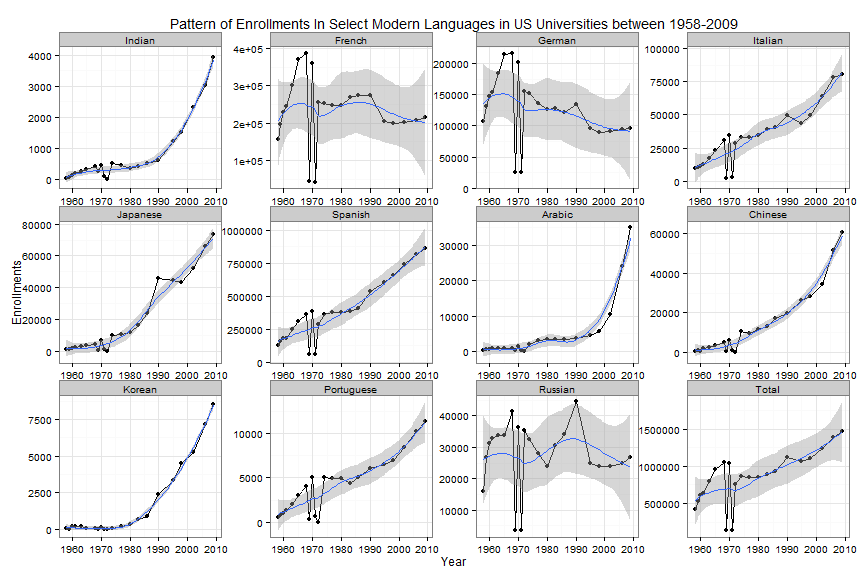
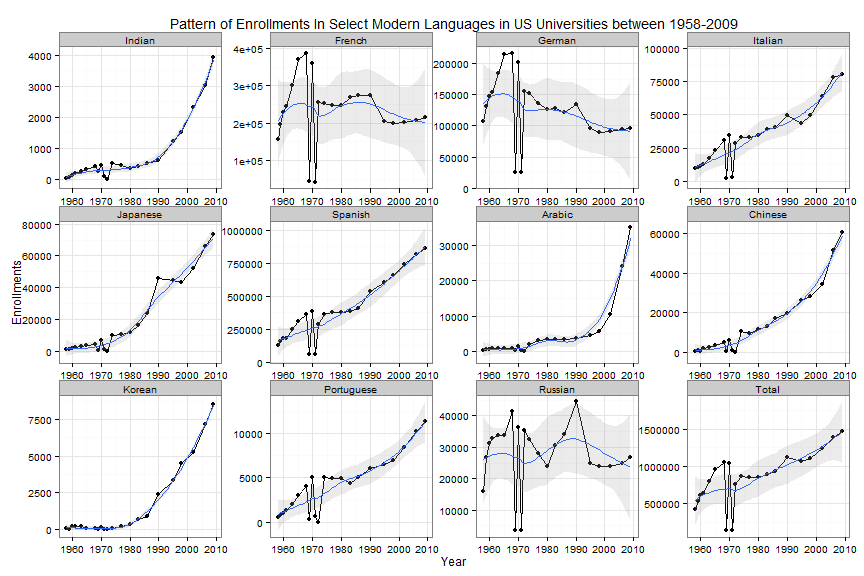
smoothed graphs

diff --git a/index.html b/index.html
@@ -6,7 +6,7 @@
 <head>
   <meta charset="utf-8">
   <meta http-equiv="X-UA-Compatible" content="IE=edge,chrome=1">
-  <title>Interest in Modern Languages other than English in the US</title>
+  <title>Data Mining Modern Languages Enrollments in US</title>
   <meta name="description" content="">
   <meta name="viewport" content="width=device-width">
   <link rel="icon" type="image/png" href="favicon.ico">
@@ -45,7 +45,7 @@
    <!-- Ref: http://twitter.github.com/bootstrap/examples/hero.html -->
    
     <div class="container">
-      <h2>Interest in Modern Languages Other than English in the US</h2>
+      <h2>Data Mining Modern Languages Enrollments in US</h2>
 <p>This is an extension of a recent <a href="http://patilv.github.io/Enrollments-in-US-in-Different-Languages-using-rCharts-and-ggplot2/">blog post published by Vivek Patil on Modern Languages Enrollments in the US</a>. Using data from <a href="https://www.mla.org/flsurvey_search">MLA surveys of enrollments in institutions of US higher education between 1983 and 2009</a>, he found that enrollments in Indian languages were low, compared to enrollments in 10 other languages, besides English. These 10 languages were French, German, Italian, Japanese, Spanish, Arabic, Chinese, Korean, Portuguese, and Russian. In this extension, we use data from 22 survey years since 1958, <a href="https://www.mla.org/flsurvey_search">the first year for which the modern languages enrollment database provides data</a>, to study the pattern and number of students enrolling in these 11 languages.</p>
 
 <p>Why is a knowledge of different languages important and what is the general perception of current trends? Kathleen Stein-Smith noted in 2013 in the <a href="http://languagemagazine.com/?page_id=6466">Language Magazine</a> that there was a foreign language deficit in the US. A similar sentiment was echoed by the <a href="http://www.globallanguageproject.org/about_why.php">Global Language Project</a>. Both noted that knowing languages could help one understand foreign cultures in better ways and could provide advantages in international relations and international business.</p>
@@ -53,29 +53,29 @@
 <h3>Data</h3>
 
 <p>Enrollment data for US higher education institutions were collected for 22 survey years between 1958 and 2009 for 11 different languages. These include 1958-1961, 1963, 1965, 1968-1972, 1974, 1977, 1980, 1983, 1986, 1990, 1995, 1998, 2002, 2006, and 2009.
-For determining enrollment figures for Indian languages, a sum of enrollments for Bengali, Gujarati, Hindi, Hindi-Urdu, Kannada, Malayalam, Marathi, Punjabi, Tamil, Telugu, and Urdu was taken. This was consistent with the procedure <a href="http://www.forbes.com/sites/alyssaayres/2014/05/01/thanks-john-oliver-why-india-isnt-a-big-focus-for-u-s-television/">Alyssa Ayres used in a recent article in Forbes.</a> For more information on the enrollment data, assumptions in certain surveys and limitations associated with specific surveys and years, please see <a href="https://www.mla.org/about_search_flsurvey">here</a> and <a href="http://www.mla.org/aggregate_enrollment">here</a>. <strong>One point to remember is that in 1969 and 1971, enrollment numbers were for summer instead of the fall.</strong>     </p>
+For determining enrollment figures for Indian languages, a sum of enrollments for Bengali, Gujarati, Hindi, Hindi-Urdu, Kannada, Malayalam, Marathi, Punjabi, Tamil, Telugu, and Urdu was taken. This was consistent with the procedure <a href="http://www.forbes.com/sites/alyssaayres/2014/05/01/thanks-john-oliver-why-india-isnt-a-big-focus-for-u-s-television/">Alyssa Ayres used in a recent article in Forbes.</a> For more information on the enrollment data, assumptions in certain surveys and limitations associated with specific surveys and years, please see <a href="https://www.mla.org/about_search_flsurvey">here</a> and <a href="http://www.mla.org/aggregate_enrollment">here</a>. <strong>Please note that in 1969 and 1971, enrollment numbers were for summer instead of the fall.</strong>     </p>
 
 <h3>Pattern of Enrollments 1958-2009</h3>
 
 <p><img src="assets/fig/unnamed-chunk-1.png" alt="plot of chunk unnamed-chunk-1"> </p>
 
-<p>Besides French, German, and Russian, interest in other languages studied in this article is on a rise. Total enrollments in this set of 11 languages are also rising. Please note that the population of the US jumped a little more than 1.75 times between 1958 and 2009. [It was approximately <a href="https://www.census.gov/popest/data/national/totals/pre-1980/tables/popclockest.txt">174.88 million in 1958</a> and about <a href="https://www.census.gov/popest/data/historical/2000s/vintage_2009/">307 million in 2009</a>.]   </p>
+<p>For most languages, there were dips in enrollments in 1969 and 1971, which are perhaps because of the way enrollments were reported for those two years (see note above).  Besides French, German, and Russian, interest in other languages studied in this article is on a rise. Total enrollments in this set of 11 languages are also rising. Please note that the population of the US jumped a little more than 1.75 times between 1958 and 2009. [It was approximately <a href="https://www.census.gov/popest/data/national/totals/pre-1980/tables/popclockest.txt">174.88 million in 1958</a> and about <a href="https://www.census.gov/popest/data/historical/2000s/vintage_2009/">307 million in 2009</a>.]   </p>
 
 <h3>Enrollments between 1958-2009</h3>
 
-<p>The <a href="http://www.mla.org/pdf/2009_enrollment_survey_pr.pdf">2009 MLA survey report</a> mentioned that Spanish, German and French (in that order) were the three most popular languages. The graph shown below indicates that Spanish, French, and German were the top three languages (among the languages being considered for this article) from the very beginning of the MLA database in 1958. In fact, among the 11 languages being studied, German has been a perennial third, whereas French was ahead of Spanish until 1969. In 1969, Spanish took over as the number one language of study. This graph also suggests that since the survey in 1986, enrollments in Spanish grew tremendously. Could it be that the growth in total enrollments is being driven primarily by the growth in enrollments in Spanish? </p>
+<p>The <a href="http://www.mla.org/pdf/2009_enrollment_survey_pr.pdf">2009 MLA survey report</a> mentioned that Spanish, German and French (in that order) were the three most popular languages. The graph shown below provides loess smoothed enrollment patterns. The graph indicates that Spanish, French, and German were the top three languages (among the languages being considered for this article) from the very beginning of the MLA database in 1958. In fact, among the 11 languages being studied, German has been a perennial third, whereas French was ahead of Spanish until 1969, when the latter took over as the number one language of study. Could it be that the growth in total enrollments is being driven primarily by the growth in enrollments in Spanish? </p>
 
 <p><img src="assets/fig/unnamed-chunk-2.png" alt="plot of chunk unnamed-chunk-2"> </p>
 
 <h3>Interactive comparison of total enrollments with and without Spanish, and comparison between one or more languages</h3>
 
-<p>The interactive chart shown below begins with a comparison of the total enrollments in 11 languages (upper line) being studied here with the total enrollments in 10 languages, after dropping Spanish (lower line). <strong>Hovering over the chart can provide information on the value during a particular year.</strong> The chart suggests that after dropping Spanish, total enrollments in the remaining 10 languages appear to be increasing at a sluggish pace. In fact, total enrollment numbers (without Spanish) are still lower than they were in 1965 or 1968, when the overall US population was substantially lower than it is now. </p>
+<p>The interactive chart shown below begins with a comparison of the total enrollments in 11 languages being studied here  (upper line) with the total enrollments in 10 languages, after dropping Spanish (lower line). <strong>Hovering over the chart can provide information on the value during a particular year.</strong> The chart suggests that after dropping Spanish, total enrollments in the remaining 10 languages appears to be increasing at a very sluggish pace. In fact, total enrollment numbers (without Spanish) are still lower than they were in 1965 or 1968, when the overall US population was substantially lower than it is now. </p>
 
 <h4>Further Interactivity</h4>
 
 <p>Clicking on a dot/circle of the legend can make that language appear/disappear from the plot. This can help with the comparison of enrollments between languages. It should be possible to plot patterns for all languages in this chart, if one so desired. </p>
 
-<iframe src="http://bl.ocks.org/patilv/raw/bd1d40544e1d0e37c348/" width=1200 height=450> </iframe>
+<iframe height="450" width="100%" src="http://bl.ocks.org/patilv/raw/bd1d40544e1d0e37c348/"></iframe>
  
 
 <h3>Conclusion</h3>

diff --git a/index.md b/index.md
@@ -1,5 +1,5 @@
 ---
-title       : Interest in Modern Languages other than English in the US
+title       : Data Mining Modern Languages Enrollments in US
 subtitle    : 
 author      : Vivek Patil
 job         : 
@@ -9,7 +9,8 @@ hitheme     : tomorrow      #
 widgets     : []            # {mathjax, quiz, bootstrap}
 mode        : selfcontained # {standalone, draft}
 ---
-## Interest in Modern Languages Other than English in the US
+## Data Mining Modern Languages Enrollments in US
+
 
 This is an extension of a recent [blog post published by Vivek Patil on Modern Languages Enrollments in the US](http://patilv.github.io/Enrollments-in-US-in-Different-Languages-using-rCharts-and-ggplot2/). Using data from [MLA surveys of enrollments in institutions of US higher education between 1983 and 2009](https://www.mla.org/flsurvey_search), he found that enrollments in Indian languages were low, compared to enrollments in 10 other languages, besides English. These 10 languages were French, German, Italian, Japanese, Spanish, Arabic, Chinese, Korean, Portuguese, and Russian. In this extension, we use data from 22 survey years since 1958, [the first year for which the modern languages enrollment database provides data](https://www.mla.org/flsurvey_search), to study the pattern and number of students enrolling in these 11 languages.
 
@@ -18,7 +19,7 @@ Why is a knowledge of different languages important and what is the general perc
 ### Data
 
 Enrollment data for US higher education institutions were collected for 22 survey years between 1958 and 2009 for 11 different languages. These include 1958-1961, 1963, 1965, 1968-1972, 1974, 1977, 1980, 1983, 1986, 1990, 1995, 1998, 2002, 2006, and 2009.
-For determining enrollment figures for Indian languages, a sum of enrollments for Bengali, Gujarati, Hindi, Hindi-Urdu, Kannada, Malayalam, Marathi, Punjabi, Tamil, Telugu, and Urdu was taken. This was consistent with the procedure [Alyssa Ayres used in a recent article in Forbes.](http://www.forbes.com/sites/alyssaayres/2014/05/01/thanks-john-oliver-why-india-isnt-a-big-focus-for-u-s-television/) For more information on the enrollment data, assumptions in certain surveys and limitations associated with specific surveys and years, please see [here](https://www.mla.org/about_search_flsurvey) and [here](http://www.mla.org/aggregate_enrollment). **One point to remember is that in 1969 and 1971, enrollment numbers were for summer instead of the fall.**     
+For determining enrollment figures for Indian languages, a sum of enrollments for Bengali, Gujarati, Hindi, Hindi-Urdu, Kannada, Malayalam, Marathi, Punjabi, Tamil, Telugu, and Urdu was taken. This was consistent with the procedure [Alyssa Ayres used in a recent article in Forbes.](http://www.forbes.com/sites/alyssaayres/2014/05/01/thanks-john-oliver-why-india-isnt-a-big-focus-for-u-s-television/) For more information on the enrollment data, assumptions in certain surveys and limitations associated with specific surveys and years, please see [here](https://www.mla.org/about_search_flsurvey) and [here](http://www.mla.org/aggregate_enrollment). **Please note that in 1969 and 1971, enrollment numbers were for summer instead of the fall.**     
 
 ### Pattern of Enrollments 1958-2009
 
@@ -26,11 +27,11 @@ For determining enrollment figures for Indian languages, a sum of enrollments fo
 ![plot of chunk unnamed-chunk-1](assets/fig/unnamed-chunk-1.png) 
 
 
-Besides French, German, and Russian, interest in other languages studied in this article is on a rise. Total enrollments in this set of 11 languages are also rising. Please note that the population of the US jumped a little more than 1.75 times between 1958 and 2009. [It was approximately [174.88 million in 1958](https://www.census.gov/popest/data/national/totals/pre-1980/tables/popclockest.txt) and about [307 million in 2009](https://www.census.gov/popest/data/historical/2000s/vintage_2009/).]   
+For most languages, there were dips in enrollments in 1969 and 1971, which are perhaps because of the way enrollments were reported for those two years (see note above).  Besides French, German, and Russian, interest in other languages studied in this article is on a rise. Total enrollments in this set of 11 languages are also rising. Please note that the population of the US jumped a little more than 1.75 times between 1958 and 2009. [It was approximately [174.88 million in 1958](https://www.census.gov/popest/data/national/totals/pre-1980/tables/popclockest.txt) and about [307 million in 2009](https://www.census.gov/popest/data/historical/2000s/vintage_2009/).]   
 
 ### Enrollments between 1958-2009
 
-The [2009 MLA survey report](http://www.mla.org/pdf/2009_enrollment_survey_pr.pdf) mentioned that Spanish, German and French (in that order) were the three most popular languages. The graph shown below indicates that Spanish, French, and German were the top three languages (among the languages being considered for this article) from the very beginning of the MLA database in 1958. In fact, among the 11 languages being studied, German has been a perennial third, whereas French was ahead of Spanish until 1969. In 1969, Spanish took over as the number one language of study. This graph also suggests that since the survey in 1986, enrollments in Spanish grew tremendously. Could it be that the growth in total enrollments is being driven primarily by the growth in enrollments in Spanish? 
+The [2009 MLA survey report](http://www.mla.org/pdf/2009_enrollment_survey_pr.pdf) mentioned that Spanish, German and French (in that order) were the three most popular languages. The graph shown below provides loess smoothed enrollment patterns. The graph indicates that Spanish, French, and German were the top three languages (among the languages being considered for this article) from the very beginning of the MLA database in 1958. In fact, among the 11 languages being studied, German has been a perennial third, whereas French was ahead of Spanish until 1969, when the latter took over as the number one language of study. Could it be that the growth in total enrollments is being driven primarily by the growth in enrollments in Spanish? 
 
 
 ![plot of chunk unnamed-chunk-2](assets/fig/unnamed-chunk-2.png) 
@@ -39,7 +40,7 @@ The [2009 MLA survey report](http://www.mla.org/pdf/2009_enrollment_survey_pr.pd
 
 ### Interactive comparison of total enrollments with and without Spanish, and comparison between one or more languages
 
-The interactive chart shown below begins with a comparison of the total enrollments in 11 languages (upper line) being studied here with the total enrollments in 10 languages, after dropping Spanish (lower line). **Hovering over the chart can provide information on the value during a particular year.** The chart suggests that after dropping Spanish, total enrollments in the remaining 10 languages appear to be increasing at a sluggish pace. In fact, total enrollment numbers (without Spanish) are still lower than they were in 1965 or 1968, when the overall US population was substantially lower than it is now. 
+The interactive chart shown below begins with a comparison of the total enrollments in 11 languages being studied here  (upper line) with the total enrollments in 10 languages, after dropping Spanish (lower line). **Hovering over the chart can provide information on the value during a particular year.** The chart suggests that after dropping Spanish, total enrollments in the remaining 10 languages appears to be increasing at a very sluggish pace. In fact, total enrollment numbers (without Spanish) are still lower than they were in 1965 or 1968, when the overall US population was substantially lower than it is now. 
 
 #### Further Interactivity
 
@@ -48,7 +49,8 @@ Clicking on a dot/circle of the legend can make that language appear/disappear f
 
 
 
-<iframe src="http://bl.ocks.org/patilv/raw/bd1d40544e1d0e37c348/" width=1200 height=450> </iframe>
+
+<iframe height="450" width="100%" src="http://bl.ocks.org/patilv/raw/bd1d40544e1d0e37c348/"></iframe>
  
 ### Conclusion
 
